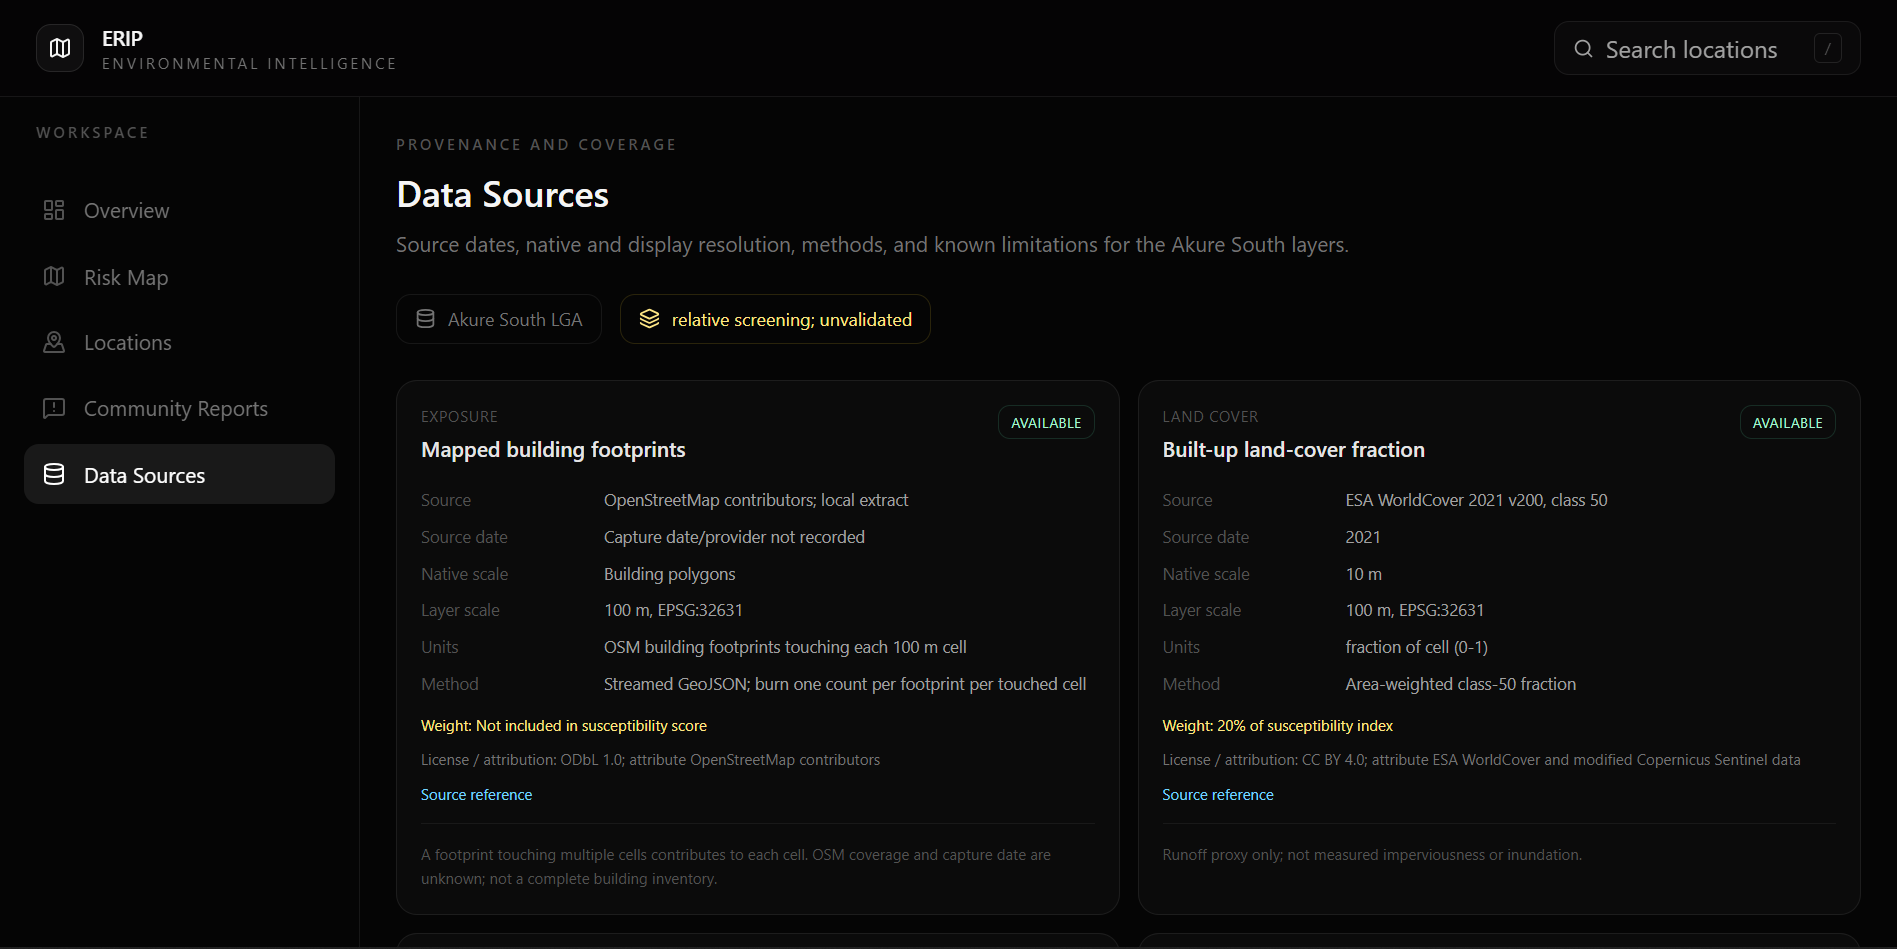
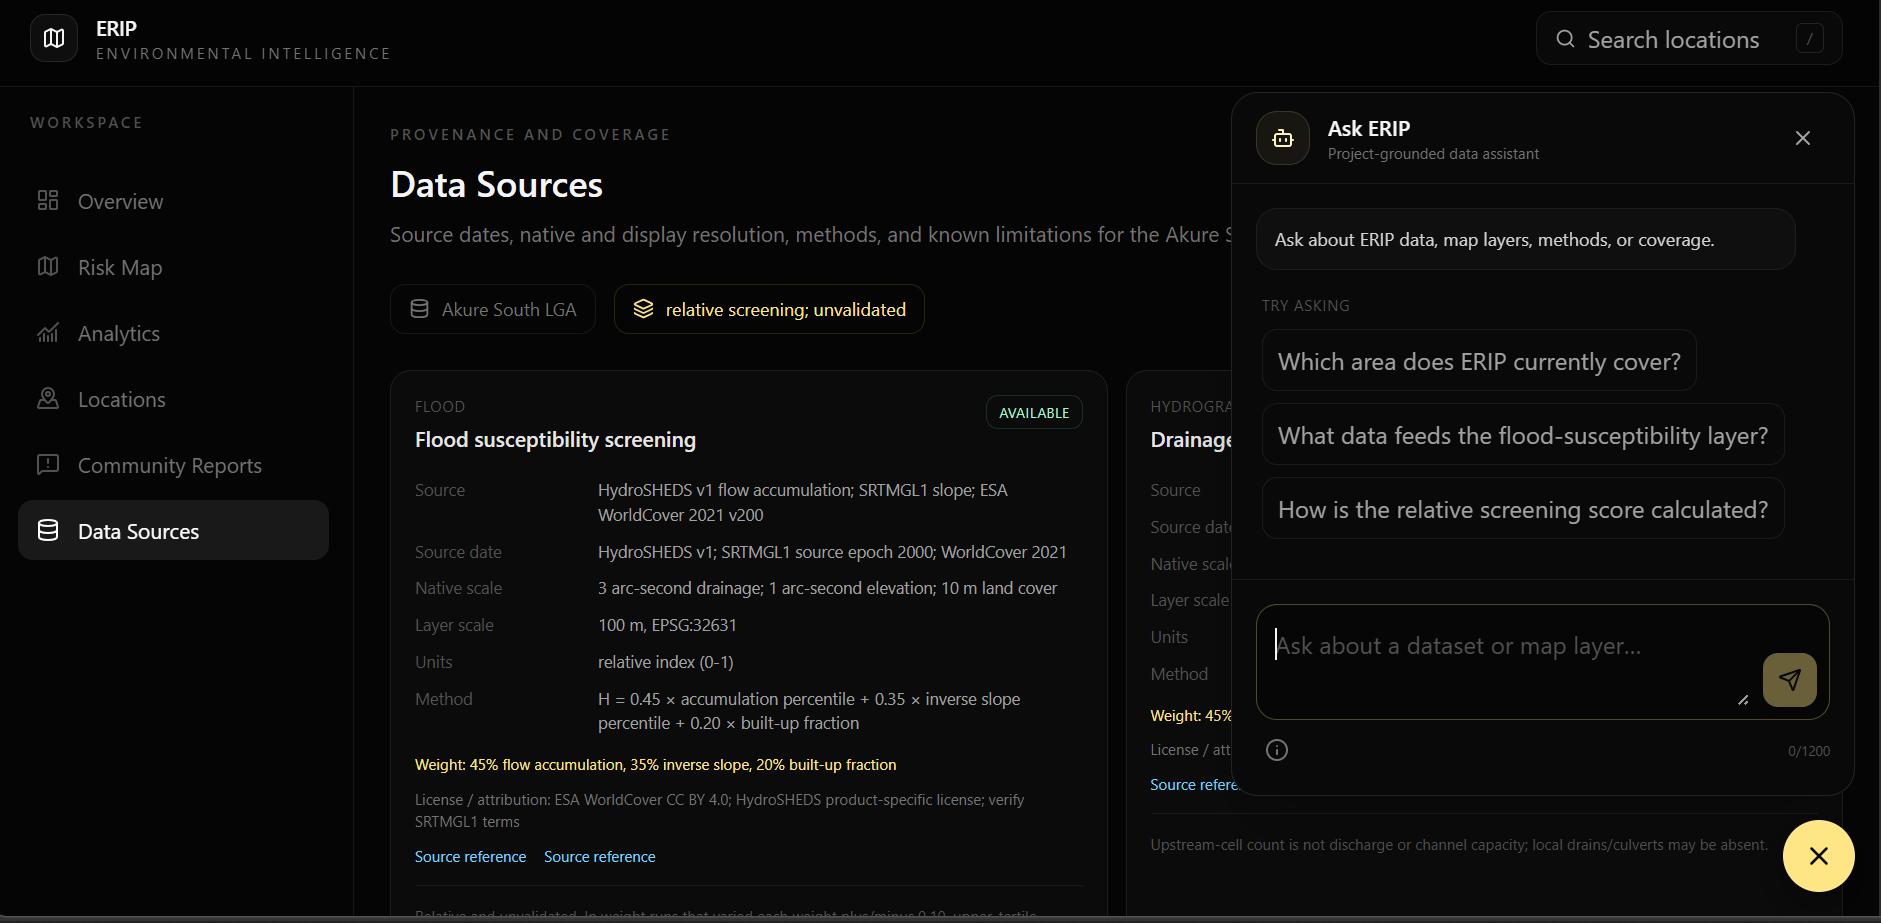
Refresh ERIP project screenshots and add location and analytics views

diff --git a/src/components/Projects/ProjectsDesktop.jsx b/src/components/Projects/ProjectsDesktop.jsx
@@ -12,8 +12,12 @@ const projects = [
     description: "Making complex environmental data navigable. An interactive map for exploring flood susceptibility, population exposure, and the evidence behind every layer.",
     detail: "Environmental intelligence for Akure South, combining flood susceptibility screening with population exposure, land cover, rainfall, and terrain layers. Location profiles connect the map to supporting evidence, while the data sources view explains methods, attribution, and known limitations.",
     image: "/projects/erip_map.png", secondaryImage: "/projects/erip_details.png",
-    imageAlt: "ERIP environmental risk map and location profile for Akure South",
-    secondaryAlt: "ERIP data sources showing methods, attribution, and limitations",
+    imageAlt: "ERIP interactive risk map with dataset layer controls",
+    secondaryAlt: "ERIP data sources and Ask ERIP assistant showing methods, attribution, and limitations",
+    gallery: [
+      { image: "/projects/erip_location.png", alt: "ERIP flood susceptibility map and selected location profile for Akure South", label: "Map detail / Location evidence" },
+      { image: "/projects/erip_analytics.png", alt: "ERIP flood susceptibility histogram and evidence interpretation panel", label: "Analytics / Flood susceptibility screening" },
+    ],
     detailLabel: "The evidence behind the map",
   },
   {
@@ -77,6 +81,10 @@ export default function Projects() {
           <p className="flow-eyebrow">{selected.category} / {selected.name}</p>
           <h2 id="flow-project-title">{selected.title}</h2><p className="flow-dialog-description">{selected.detail}</p>
           <img className="flow-dialog-image" src={selected.image} alt={selected.imageAlt} />
+          {selected.gallery?.map((view) => <div key={view.image}>
+            <p className="flow-eyebrow">{view.label}</p>
+            <img className="flow-dialog-image" src={view.image} alt={view.alt} loading="lazy" />
+          </div>)}
           <p className="flow-eyebrow">Interface detail / {selected.detailLabel}</p>
           <img className="flow-dialog-image" src={selected.secondaryImage} alt={selected.secondaryAlt} loading="lazy" />
           <a className="flow-text-link" href="#contact" onClick={() => setSelected(null)}>Have something in mind? <span aria-hidden="true"><ArrowIcon direction="ne" /></span></a>
@@ -85,3 +93,4 @@ export default function Projects() {
     </section>
   );
 }
+
